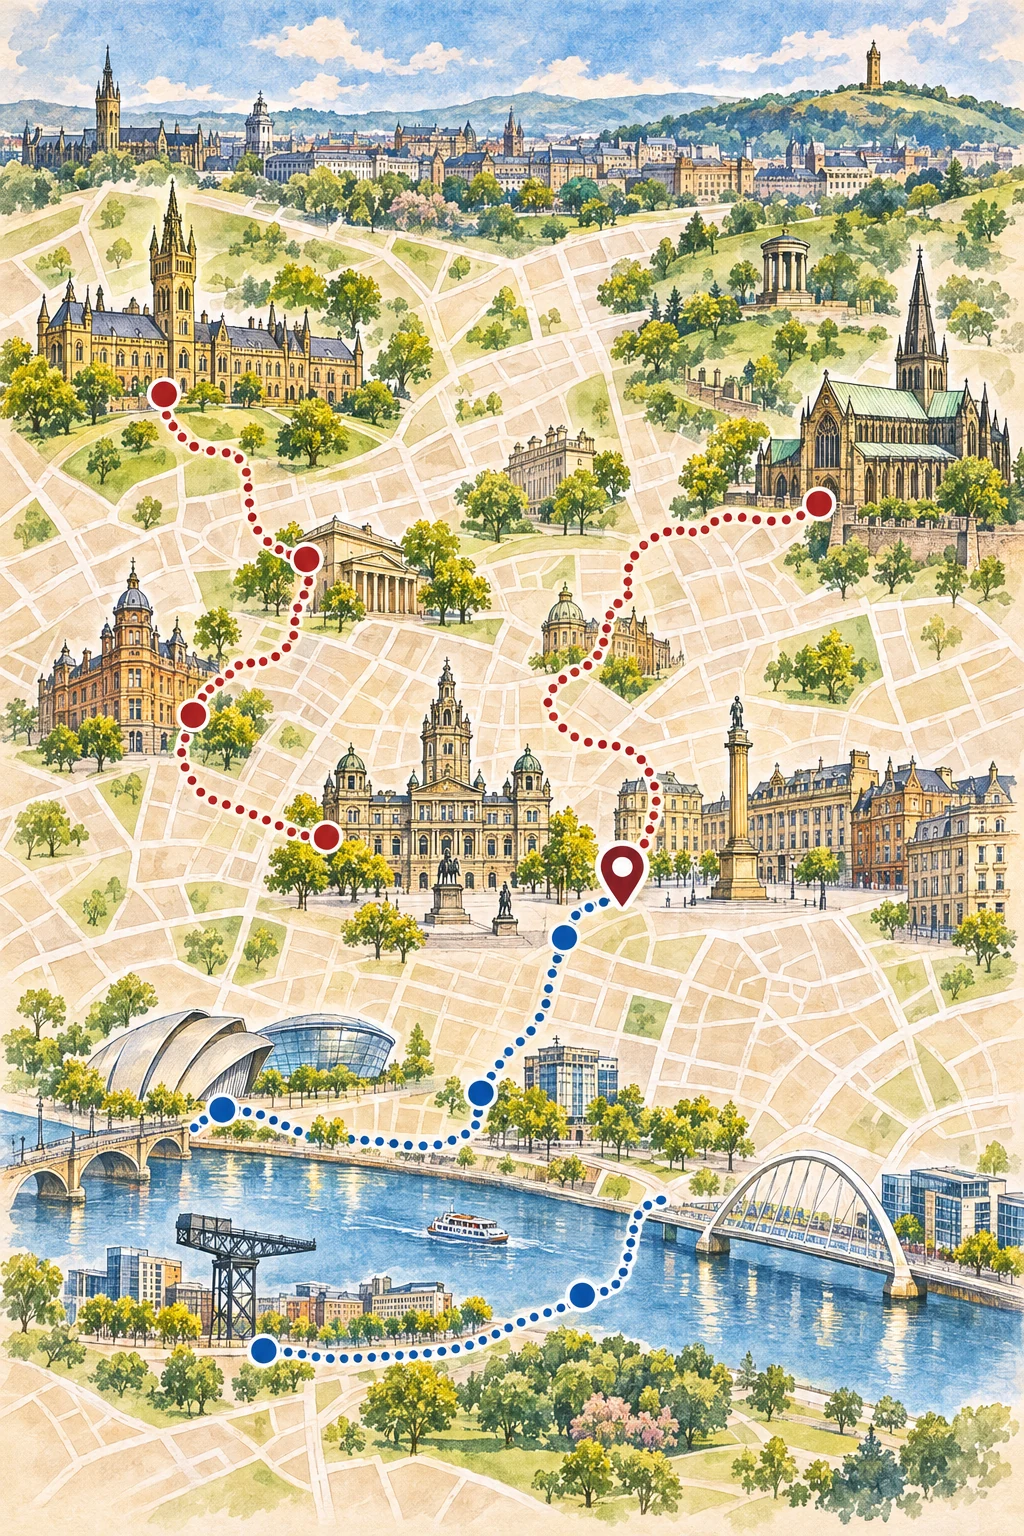
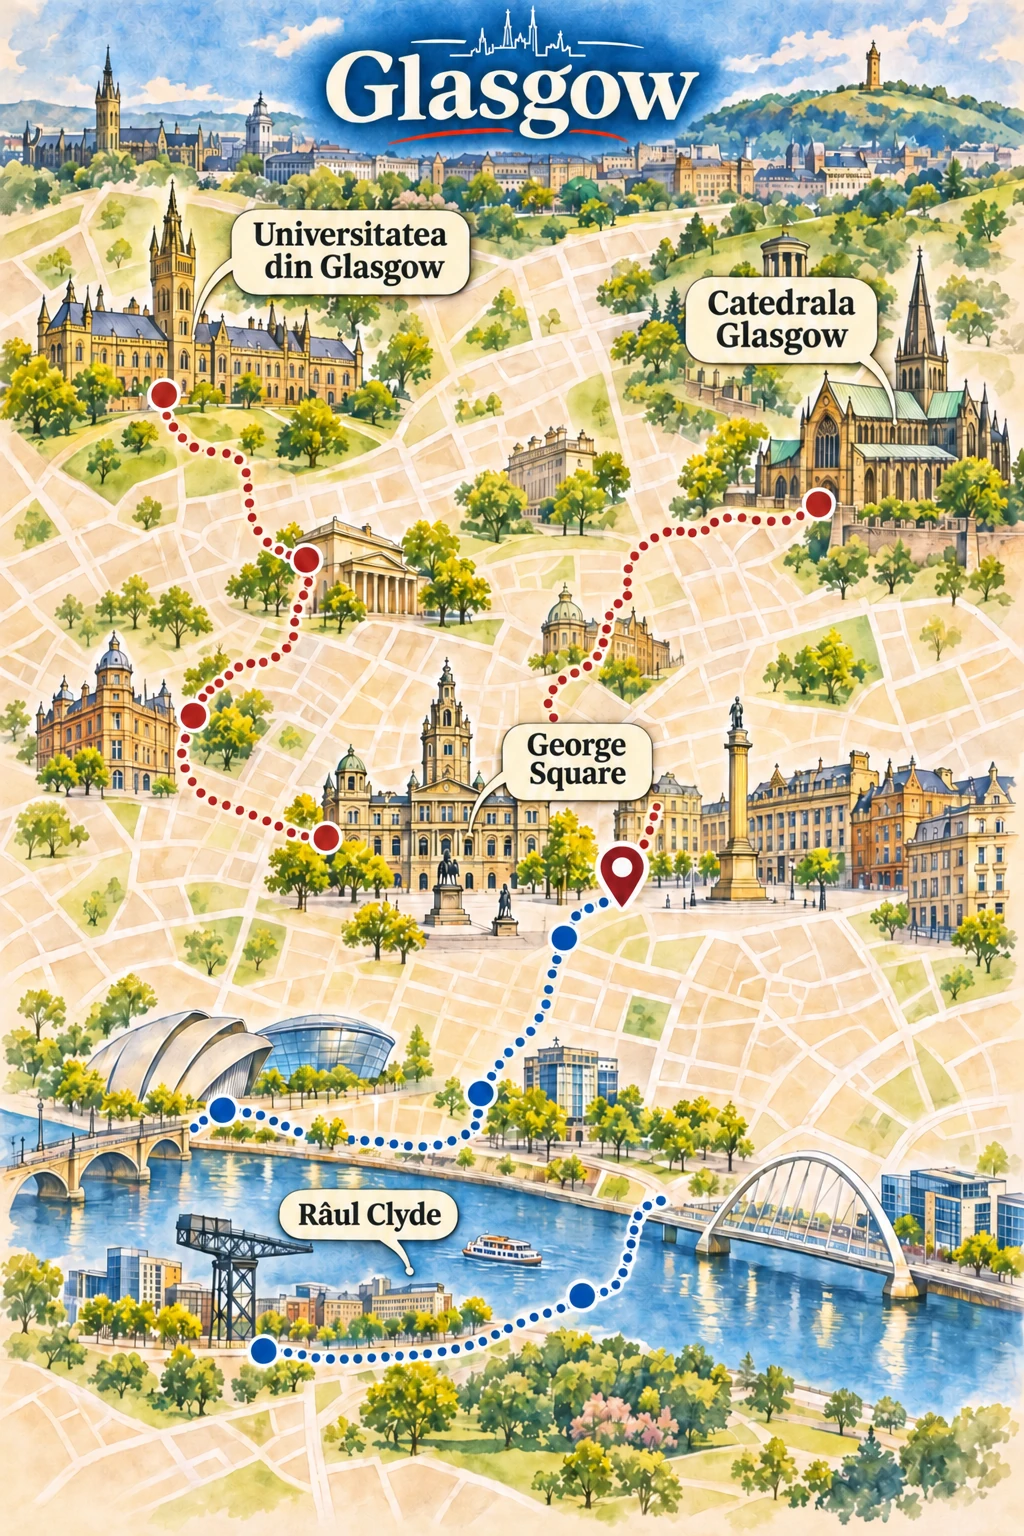
Label Glasgow guide map

diff --git a/ILUSTRATII.md b/ILUSTRATII.md
@@ -43,9 +43,10 @@ Se adaugă numele obiectivelor direct pe hărțile existente, în stilul aprobat
 - Valencia
 - Nisa
 - Marsilia
+- Glasgow
 
 Harta originală pentru Praga avea deja etichete. Celelalte orașe din `assets/guides-prague-style/` necesită în continuare verificare și prelucrare. Actualizează această listă în același commit cu fiecare lot nou.
 
-Ilustrațiile fără etichete sunt păstrate în istoricul Git: pentru Roma și Barcelona folosește fișierul de la commitul `14f016a`, iar pentru Paris, Londra, Lisabona, Berlin și Bruxelles de la `508e691`. Pentru Budapesta, Atena, Veneția, Amsterdam, Viena, Milano, Madrid, Bologna, Lyon, Porto, Varșovia, Copenhaga, Edinburgh, Bruges, Köln, Dublin, Cracovia, Stockholm, Chișinău, Bratislava, Sofia, Oslo, Bari, Napoli, Sevilla, Istanbul, Dubrovnik, Palermo, Pisa, Florența, Valencia, Nisa și Marsilia se pot folosi originalele de la `48efdd5`. Copii locale sunt în `/workspace/guide-batch/original-illustrations` când acel director este disponibil. Păstrează imaginile originale pentru quiz.
+Ilustrațiile fără etichete sunt păstrate în istoricul Git: pentru Roma și Barcelona folosește fișierul de la commitul `14f016a`, iar pentru Paris, Londra, Lisabona, Berlin și Bruxelles de la `508e691`. Pentru Budapesta, Atena, Veneția, Amsterdam, Viena, Milano, Madrid, Bologna, Lyon, Porto, Varșovia, Copenhaga, Edinburgh, Bruges, Köln, Dublin, Cracovia, Stockholm, Chișinău, Bratislava, Sofia, Oslo, Bari, Napoli, Sevilla, Istanbul, Dubrovnik, Palermo, Pisa, Florența, Valencia, Nisa, Marsilia și Glasgow se pot folosi originalele de la `48efdd5`. Copii locale sunt în `/workspace/guide-batch/original-illustrations` când acel director este disponibil. Păstrează imaginile originale pentru quiz.
 
 Nu modifica funcționalitatea de căutare a zborurilor în cadrul acestei activități.
